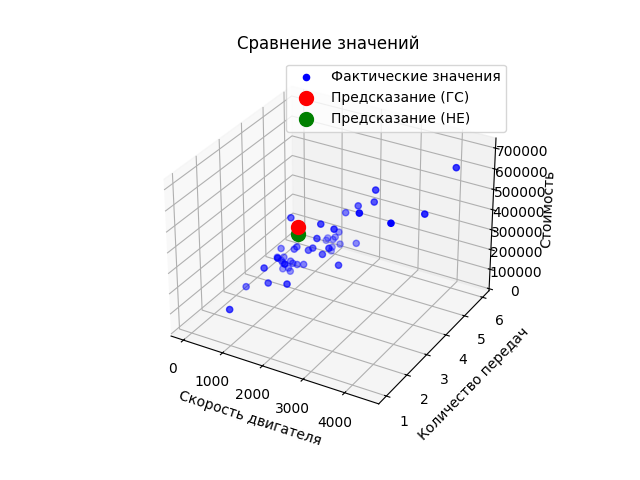
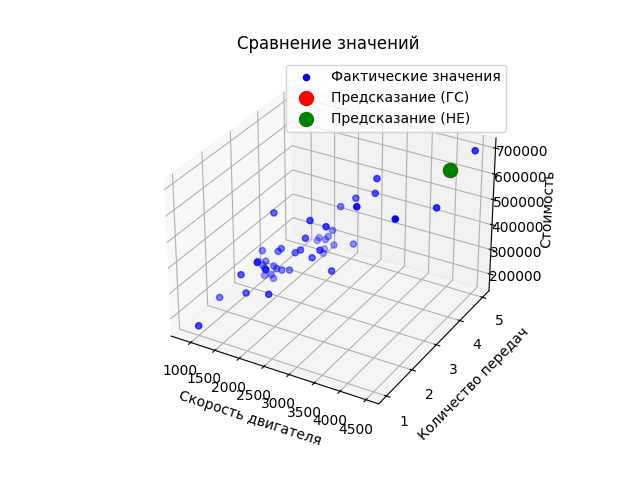
ь

diff --git a/lab-2/solution.py b/lab-2/solution.py
@@ -2,14 +2,12 @@ import matplotlib.pyplot as plt
 import numpy as np
 import pandas as pd
 
-
 def load_data(filepath):
     """Загрузка данных из указанного файла."""
     raw_data = pd.read_csv(filepath, header=None)
     features = raw_data.iloc[:, :-1].values
     target = raw_data.iloc[:, -1].values
     return features, target
-
 
 def normalize_features(features):
     """Стандартизация признаков путем вычитания среднего и деления на стандартное отклонение."""
@@ -18,7 +16,6 @@ def normalize_features(features):
     standardized_features = (features - means) / std_devs
     return standardized_features, means, std_devs
 
-
 def calculate_cost(features, target, parameters):
     """Расчет стоимости функции для линейной регрессии."""
     num_samples = len(target)
@@ -26,25 +23,20 @@ def calculate_cost(features, target, parameters):
     cost = (1 / (2 * num_samples)) * np.sum(errors ** 2)
     return cost
 
-
 def gradient_descent(features, target, parameters, learning_rate, iterations):
     """Градиентный спуск для оптимизации параметров."""
     num_samples = len(target)
     cost_history = np.zeros(iterations)
-
     for i in range(iterations):
         gradient = (features.T @ (features @ parameters - target)) / num_samples
         parameters -= learning_rate * gradient
         cost_history[i] = calculate_cost(features, target, parameters)
-
     return parameters, cost_history
-
 
 def solve_normal_equation(features, target):
     """Вычисление параметров линейной регрессии через нормальное уравнение."""
     parameters = np.linalg.pinv(features.T @ features) @ (features.T @ target)
     return parameters
-
 
 # Загрузка данных
 features, target = load_data('ex1data2.txt')
@@ -89,26 +81,28 @@ engine_speed_norm = (engine_speed - feature_means[0]) / feature_stds[0]
 gear_count_norm = (gear_count - feature_means[1]) / feature_stds[1]
 user_input_gd = np.array([[1, engine_speed_norm, gear_count_norm]])
 
+# Данные без нормализации
+user_input_ne = np.array([[1, engine_speed, gear_count]])
+
 # Предсказания
 predicted_gd = user_input_gd @ optimized_parameters
-predicted_ne = np.array([[1, engine_speed, gear_count]]) @ normal_parameters
+predicted_ne = user_input_ne @ normal_parameters
 
-print(f"Предсказанная стоимость (Градиентный спуск): {predicted_gd[0]:.2f}")
-print(f"Предсказанная стоимость (Нормальное уравнение): {predicted_ne[0]:.2f}")
+# Вывод в консоль предсказаний
+print(f"\nРезультаты предсказания:\n")
+print(f"- Предсказанная стоимость с нормализацией (Градиентный спуск): {predicted_gd[0]:.2f}")
+print(f"- Предсказанная стоимость без нормализации (Нормальное уравнение): {predicted_ne[0]:.2f}")
 
 # 3D-график
 fig = plt.figure()
 ax = fig.add_subplot(111, projection='3d')
-
 ax.scatter(features[:, 0], features[:, 1], target, c='b', label='Фактические значения')
 ax.scatter(engine_speed, gear_count, predicted_gd[0], c='r', s=100, label='Предсказание (ГС)')
 ax.scatter(engine_speed, gear_count, predicted_ne[0], c='g', s=100, label='Предсказание (НЕ)')
-
 ax.set_xlabel('Скорость двигателя')
 ax.set_ylabel('Количество передач')
 ax.set_zlabel('Стоимость')
 ax.set_title('Сравнение значений')
 ax.legend()
-
 plt.savefig('predictions_comparison.png')
 plt.close()
